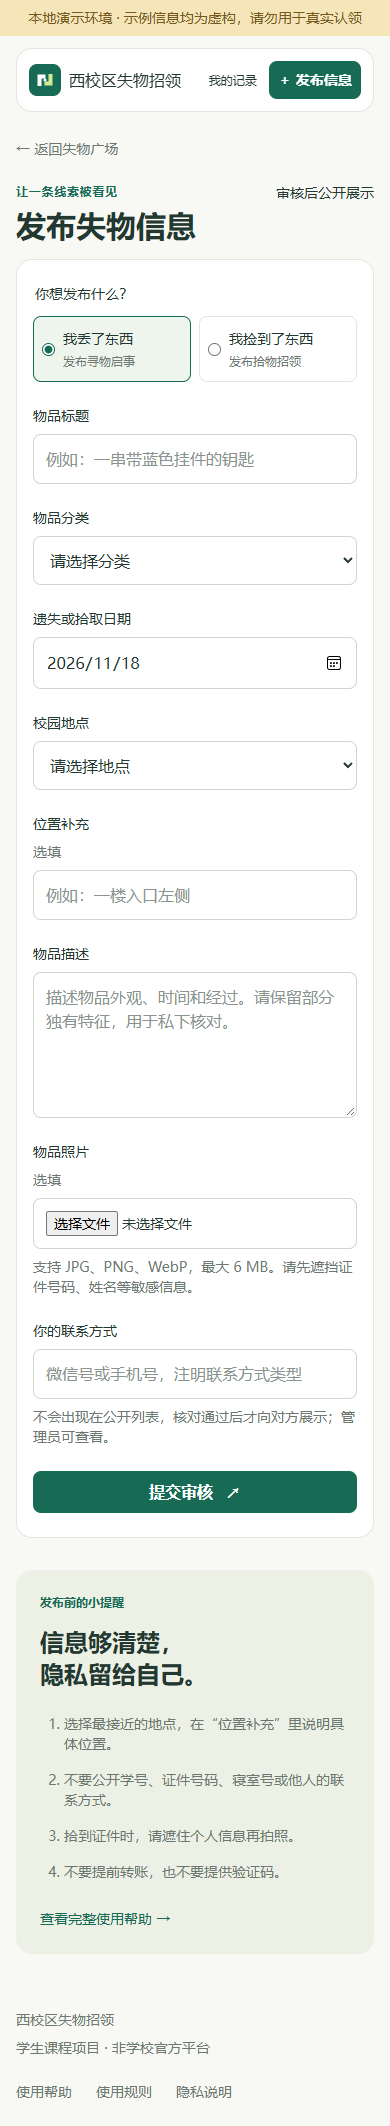
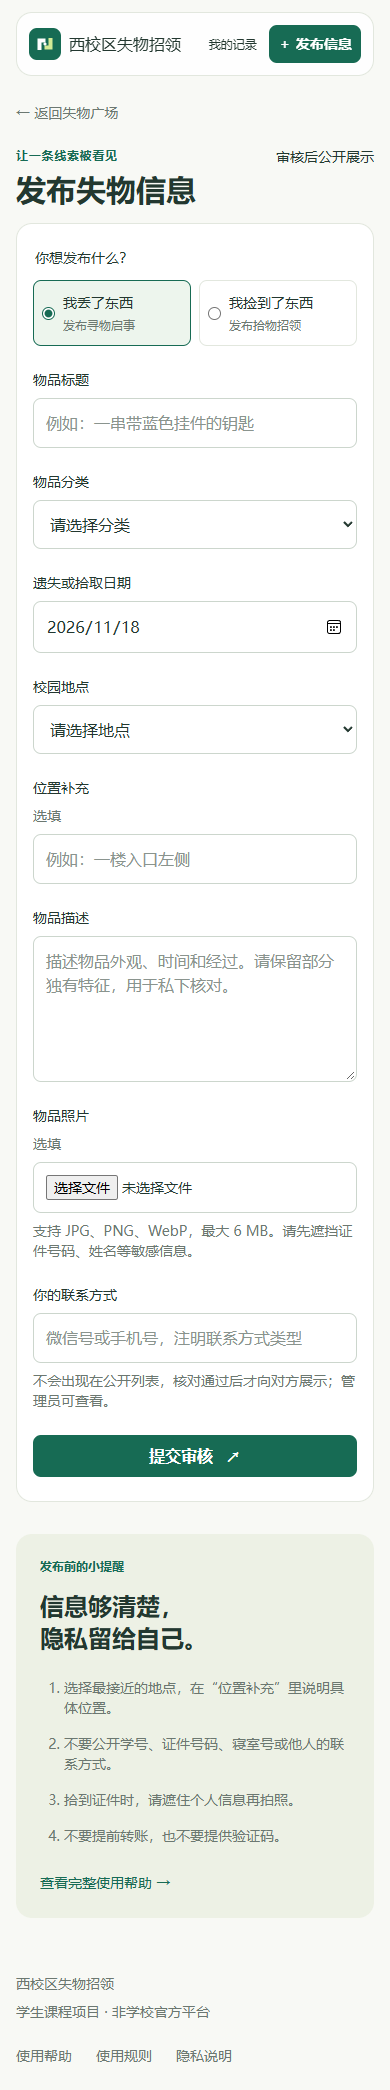
改为真实认领使用版，移除演示模式并隔离旧样例数据

diff --git a/templates/组件.html b/templates/组件.html
@@ -24,7 +24,7 @@
         <div class="card-topline caption-5"><span>{{ item.category }}</span><span>{{ item.happened_on.strftime("%m月%d日") }}</span></div>
         <h3 class="title-2">{{ item.title }}</h3>
         <p class="card-location body-6"><span aria-hidden="true">⌖</span> {{ item.location }}</p>
-        <div class="card-bottom caption-5"><span>{{ '演示信息' if item.is_demo else item.owner.username }}</span><span>{{ '查看进度' if item.resolved else '查看详情' }} <span aria-hidden="true">↗</span></span></div>
+        <div class="card-bottom caption-5"><span>{{ item.owner.username }}</span><span>{{ '查看进度' if item.resolved else '查看详情' }} <span aria-hidden="true">↗</span></span></div>
       </div>
     </a>
   </article>

diff --git a/templates/详情.html b/templates/详情.html
@@ -2,7 +2,6 @@
 {% block title %}{{ item.title }}{% endblock %}
 {% block content %}
   <a class="back-link caption-1" href="{{ url_for('index') }}">← 返回失物广场</a>
-  {% if item.is_demo %}<p class="notice info body-6">这是一条虚构的演示信息，不代表校园内真实发生的事件。</p>{% endif %}
   {% if item.review != "approved" %}<p class="notice info body-6">{{ review_names[item.review] }}，当前信息未公开。{{ item.review_note }}</p>{% endif %}
   <section class="detail-layout">
     <article class="form-panel detail-main">

diff --git a/templates/首页.html b/templates/首页.html
@@ -28,7 +28,7 @@
     <div><span class="stat-value heading-5">{{ counts.get('found', 0) }}</span><span class="caption-2">拾到物品等待认领</span></div>
     <div><span class="stat-value heading-5">{{ returned }}</span><span class="caption-2">已标记找回</span></div>
     <p class="caption-2 stats-note">
-      {{ '当前为演示数据' if demo_mode else '数字来自已审核的信息' }}
+      数字来自已审核的信息
       <br>
       你的一条线索，也许正被需要
     </p>

diff --git a/templates/基础.html b/templates/基础.html
@@ -20,7 +20,6 @@
   </head>
   <body class="body-3">
     <a class="skip-link" href="#main">跳转到主要内容</a>
-    {% if demo_mode %}<div class="demo-banner caption-1">本地演示环境 · 示例信息均为虚构，请勿用于真实认领</div>{% endif %}
     <header class="site-header">
       <a class="brand"
          href="{{ url_for('index') }}"

diff --git a/static/样式.css b/static/样式.css
@@ -823,13 +823,6 @@ a:active {
   gap: 24px
 }
 
-.demo-banner {
-  text-align: center;
-  background: #f5e5b9;
-  color: #75591f;
-  padding: 8px 16px
-}
-
 .flash-stack {
   display: grid;
   gap: 8px;

diff --git a/app.py b/app.py
@@ -73,6 +73,7 @@ class Item(db.Model):
     review = db.Column(db.String(12), nullable=False, default='pending', index=True)
     review_note = db.Column(db.String(200), nullable=False, default='')
     resolved = db.Column(db.Boolean, nullable=False, default=False)
+    # 兼容旧版数据库；旧演示记录永不进入真实认领页面。
     is_demo = db.Column(db.Boolean, nullable=False, default=False)
     created_at = db.Column(db.DateTime, nullable=False, default=now, index=True)
     __table_args__ = (db.Index('ix_item_feed', 'review', 'resolved', 'kind', 'created_at'),)
@@ -153,7 +154,6 @@ def create_app(test_config=None):
         SITE_NAME=os.environ.get('SITE_NAME', campus['网站名称']),
         SCHOOL_NAME=os.environ.get('SCHOOL_NAME', campus['学校名称']),
         CAMPUS_LOCATIONS=campus['校园地点'],
-        DEMO_MODE=os.environ.get('DEMO_MODE', '0') == '1',
     )
     if os.environ.get('ALLOWED_HOSTS'):
         app.config['TRUSTED_HOSTS'] = os.environ['ALLOWED_HOSTS'].split(',')
@@ -186,7 +186,7 @@ def create_app(test_config=None):
     def shared():
         return dict(categories=CATEGORIES, review_names=REVIEW_NAMES, claim_names=CLAIM_NAMES,
                     today=(now() + timedelta(hours=8)).date(), site_name=app.config['SITE_NAME'],
-                    school_name=app.config['SCHOOL_NAME'], demo_mode=app.config['DEMO_MODE'],
+                    school_name=app.config['SCHOOL_NAME'],
                     campus_locations=app.config['CAMPUS_LOCATIONS'])
 
     @app.template_filter('beijing')
@@ -212,6 +212,8 @@ def create_app(test_config=None):
         db.session.commit()
 
     def visible(item):
+        if item.is_demo:
+            return False
         return item.review == 'approved' or (g.user and (g.user.id == item.owner_id or g.user.is_admin))
 
     def save_image(upload):
@@ -250,7 +252,7 @@ def create_app(test_config=None):
         category = request.args.get('category', '')
         location = request.args.get('location', '')
         status = request.args.get('status', 'open')
-        query = select(Item).where(Item.review == 'approved')
+        query = select(Item).where(Item.review == 'approved', Item.is_demo.is_(False))
         if kind in ('lost', 'found'):
             query = query.where(Item.kind == kind)
         if category in CATEGORIES:
@@ -264,8 +266,8 @@ def create_app(test_config=None):
         if q:
             query = query.where(or_(Item.title.contains(q, autoescape=True), Item.location.contains(q, autoescape=True), Item.description.contains(q, autoescape=True)))
         page = db.paginate(query.order_by(Item.created_at.desc(), Item.id.desc()), per_page=12, error_out=False)
-        counts = dict(db.session.execute(select(Item.kind, db.func.count()).where(Item.review == 'approved', Item.resolved.is_(False)).group_by(Item.kind)).all())
-        returned = db.session.scalar(select(db.func.count()).select_from(Item).where(Item.review == 'approved', Item.resolved.is_(True)))
+        counts = dict(db.session.execute(select(Item.kind, db.func.count()).where(Item.review == 'approved', Item.resolved.is_(False), Item.is_demo.is_(False)).group_by(Item.kind)).all())
+        returned = db.session.scalar(select(db.func.count()).select_from(Item).where(Item.review == 'approved', Item.resolved.is_(True), Item.is_demo.is_(False)))
         return render_template('首页.html', page=page, q=q, kind=kind, category=category, location=location, status=status, counts=counts, returned=returned)
 
     @app.route('/register', methods=['GET', 'POST'])
@@ -392,7 +394,7 @@ def create_app(test_config=None):
     @signed_in
     def claim(item_id):
         item = db.get_or_404(Item, item_id)
-        if item.review != 'approved' or item.resolved or item.owner_id == g.user.id:
+        if item.is_demo or item.review != 'approved' or item.resolved or item.owner_id == g.user.id:
             abort(403)
         try:
             recent = db.session.scalar(select(db.func.count()).select_from(Claim).where(Claim.claimant_id == g.user.id, Claim.created_at > now() - timedelta(days=1)))
@@ -458,9 +460,9 @@ def create_app(test_config=None):
     @app.get('/me')
     @signed_in
     def dashboard():
-        items = db.paginate(select(Item).where(Item.owner_id == g.user.id).order_by(Item.created_at.desc()), per_page=12, error_out=False)
-        claims = db.session.scalars(select(Claim).where(Claim.claimant_id == g.user.id).order_by(Claim.created_at.desc()).limit(50)).all()
-        incoming = db.session.scalars(select(Claim).join(Item).where(Item.owner_id == g.user.id, Claim.status == 'pending').order_by(Claim.created_at.desc()).limit(50)).all()
+        items = db.paginate(select(Item).where(Item.owner_id == g.user.id, Item.is_demo.is_(False)).order_by(Item.created_at.desc()), per_page=12, error_out=False)
+        claims = db.session.scalars(select(Claim).join(Item).where(Claim.claimant_id == g.user.id, Item.is_demo.is_(False)).order_by(Claim.created_at.desc()).limit(50)).all()
+        incoming = db.session.scalars(select(Claim).join(Item).where(Item.owner_id == g.user.id, Claim.status == 'pending', Item.is_demo.is_(False)).order_by(Claim.created_at.desc()).limit(50)).all()
         return render_template('我的记录.html', page=items, claims=claims, incoming=incoming)
 
     @app.get('/admin')
@@ -469,8 +471,8 @@ def create_app(test_config=None):
         state = request.args.get('state', 'pending')
         if state not in REVIEW_NAMES:
             state = 'pending'
-        page = db.paginate(select(Item).where(Item.review == state).order_by(Item.created_at.desc()), per_page=12, error_out=False)
-        pending_count = db.session.scalar(select(db.func.count()).select_from(Item).where(Item.review == 'pending'))
+        page = db.paginate(select(Item).where(Item.review == state, Item.is_demo.is_(False)).order_by(Item.created_at.desc()), per_page=12, error_out=False)
+        pending_count = db.session.scalar(select(db.func.count()).select_from(Item).where(Item.review == 'pending', Item.is_demo.is_(False)))
         return render_template('管理后台.html', page=page, state=state, pending_count=pending_count)
 
     @app.post('/admin/items/<int:item_id>')
@@ -552,31 +554,5 @@ def create_app(test_config=None):
         user.blocked = not unblock
         db.session.commit()
         click.echo('账号状态已更新。')
-
-    @app.cli.command('seed-demo')
-    def seed_demo():
-        """只在 DEMO_MODE=1 时写入明确标注的演示记录。"""
-        if not app.config['DEMO_MODE']:
-            raise click.ClickException('仅演示环境可执行。先设置 DEMO_MODE=1，勿在正式站点执行。')
-        if db.session.scalar(select(Item.id).where(Item.is_demo.is_(True)).limit(1)):
-            click.echo('演示数据已存在，未重复写入。')
-            return
-        user = User(username='演示发布者_' + secrets.token_hex(3), password_hash=generate_password_hash(secrets.token_urlsafe(32)))
-        db.session.add(user)
-        db.session.flush()
-        samples = [('found','一串带蓝色挂件的钥匙','钥匙','弘毅楼'),
-                   ('lost','米白色帆布包，有一本笔记','包袋衣物','大食堂'),
-                   ('found','一本写满批注的英语书','书本文具','笃学楼'),
-                   ('lost','深灰色无线耳机充电盒','数码设备','操场'),
-                   ('found','透明磨砂水杯','日用物品','篮球场'),
-                   ('found','一张校园卡，等待主人','证件卡片','小食堂')]
-        for i, (kind, title, category, location) in enumerate(samples):
-            db.session.add(Item(owner_id=user.id, kind=kind, title=title, category=category, location=location,
-                                happened_on=(now()+timedelta(hours=8)-timedelta(days=i//2)).date(),
-                                description='这是一条界面演示信息，并非真实失物。实际使用时请描述物品外观与发现位置，并保留可供私下核对的细节。',
-                                contact='演示信息，不提供真实联系方式', review='approved', is_demo=True,
-                                created_at=now()-timedelta(hours=i*3), resolved=i==5))
-        db.session.commit()
-        click.echo('已加入 6 条明确标注的演示信息。')
 
     return app

diff --git a/启动项目.py b/启动项目.py
@@ -1,32 +1,22 @@
-"""本地启动入口：python 启动项目.py，演示版加 --demo。"""
+"""本地启动入口：python 启动项目.py，直接使用真实发布与认领流程。"""
 import argparse
-import os
 import threading
 import webbrowser
-from pathlib import Path
 
 from app import create_app, db
 
 
 def main():
     parser = argparse.ArgumentParser(description='启动校园失物招领，仅供本地开发。')
-    parser.add_argument('--demo', action='store_true', help='使用独立的演示数据库')
     parser.add_argument('--no-browser', action='store_true', help='不自动打开浏览器')
     parser.add_argument('--port', type=int, default=5000)
     args = parser.parse_args()
     config = {'SESSION_COOKIE_SECURE':False, 'TRUSTED_HOSTS':['localhost','127.0.0.1']}
-    if args.demo:
-        folder = Path(__file__).resolve().parent / 'instance'
-        config.update(DEMO_MODE=True, SQLALCHEMY_DATABASE_URI='sqlite:///' + (folder / '本地演示.db').as_posix(), UPLOAD_FOLDER=str(folder / '演示图片'))
     app = create_app(config)
     with app.app_context():
         db.create_all()
-        if args.demo:
-            result = app.test_cli_runner().invoke(args=['seed-demo'])
-            if result.exit_code:
-                raise RuntimeError(result.output)
     address = f'http://127.0.0.1:{args.port}'
-    print(f'本地地址：{address}\n按 Ctrl+C 停止。演示数据与正式数据库独立。', flush=True)
+    print(f'本地地址：{address}\n按 Ctrl+C 停止。请先创建管理员，审核同学提交的信息。', flush=True)
     if not args.no_browser:
         threading.Timer(1, lambda: webbrowser.open(address)).start()
     app.run(host='127.0.0.1', port=args.port, debug=False)

diff --git a/tests/test_业务流程.py b/tests/test_业务流程.py
@@ -19,7 +19,7 @@ def app(tmp_path):
     app = create_app({'TESTING': True, 'SECRET_KEY': 'tests-only-secret',
                       'SQLALCHEMY_DATABASE_URI': 'sqlite:///' + (tmp_path / '测试.db').as_posix(),
                       'UPLOAD_FOLDER': str(tmp_path / '图片'), 'WTF_CSRF_ENABLED': False,
-                      'SESSION_COOKIE_SECURE': False, 'DEMO_MODE': False})
+                      'SESSION_COOKIE_SECURE': False})
     with app.app_context():
         db.create_all()
         for name in ('发布同学', '认领同学', '其他同学', '管理员'):
@@ -238,3 +238,17 @@ def test_cli_and_headers(app):
     assert response.headers['X-Frame-Options'] == 'DENY'
     assert "script-src 'self'" in response.headers['Content-Security-Policy']
     assert 'no-store' in response.headers['Cache-Control']
+
+
+def test_legacy_demo_stays_hidden(app):
+    item_id = post_item(app, is_demo=True)
+    client = app.test_client()
+    html = client.get('/').get_data(as_text=True)
+    assert '蓝色挂件钥匙' not in html
+    assert '0 条符合条件' in html
+    assert '本地演示环境' not in html
+    assert client.get(f'/items/{item_id}').status_code == 404
+    assert client_as(app, '发布同学').get(f'/items/{item_id}').status_code == 404
+    claimant = client_as(app, '认领同学')
+    assert claimant.post(f'/items/{item_id}/claim', data={'proof':'这串钥匙是我的，有星星挂件。','contact':'测试联系'}).status_code == 403
+    assert '蓝色挂件钥匙' not in client_as(app, '管理员').get('/admin?state=approved').get_data(as_text=True)

diff --git a/README.md b/README.md
@@ -4,7 +4,7 @@
 
 > 学生课程项目，非学校官方平台。源码发布到 GitHub 不等于网站已经上线。
 
-代码采用 [MIT 开源许可证](LICENSE)，可用于学习和改进。用户数据库、照片和真实配置不属于开源内容，不进入仓库。
+代码采用 [MIT 开源许可证](LICENSE)，可用于学习和改进。用户数据库、照片和真实配置不属于开源内容，不进入仓库。项目直接用于真实发布与认领，不生成虚构样例；新安装时信息列表与统计为零。
 
 ![首页预览](交付预览/电脑首页.png)
 
@@ -24,7 +24,7 @@
 Windows 在项目目录打开 PowerShell：
 
 ```powershell
-powershell -ExecutionPolicy Bypass -File .\启动项目.ps1 --demo
+powershell -ExecutionPolicy Bypass -File .\启动项目.ps1
 ```
 
 或者手动启动：
@@ -32,10 +32,10 @@ powershell -ExecutionPolicy Bypass -File .\启动项目.ps1 --demo
 ```powershell
 python -m venv .venv
 .\.venv\Scripts\python.exe -m pip install -r requirements.txt
-.\.venv\Scripts\python.exe 启动项目.py --demo
+.\.venv\Scripts\python.exe 启动项目.py
 ```
 
-浏览器访问 `http://127.0.0.1:5000`。演示版使用独立数据库，虚构信息均有标记。去掉 `--demo` 使用空白的正式数据环境。
+浏览器访问 `http://127.0.0.1:5000`。新安装的数据为空，同学可以注册并发布真实信息，管理员审核后公开展示。
 
 创建正式本地环境的管理员：
 
@@ -44,7 +44,7 @@ python -m venv .venv
 .\.venv\Scripts\python.exe -m flask --app app create-admin
 ```
 
-没有默认管理员密码。演示数据库也不提供固定密码账号，避免误用到公网。
+没有默认账号或管理员密码，首次使用必须自行创建管理员。注册的普通账号没有审核权限。
 
 ## 校园地点
 

diff --git a/验证记录.md b/验证记录.md
@@ -4,13 +4,13 @@
 
 ## 已通过
 
-- **12 项业务与权限测试**：页面与地点列表、注册登录、完整发布审核认领流程、字段校验与脚本转义、图片格式与访问权限、CSRF、搜索筛选与分页、所有权与重复申请、单一认领确认、频率限制、审核退回与账号限制、维护命令与安全响应头。
+- **13 项业务与权限测试**：页面与地点列表、注册登录、完整发布审核认领流程、字段校验与脚本转义、图片格式与访问权限、CSRF、搜索筛选与分页、所有权与重复申请、单一认领确认、频率限制、审核退回与账号限制、维护命令与安全响应头，以及旧演示数据隔离。
 - **浏览器实际操作**：注册、地点筛选、查看详情、发布、弹窗确认撤下、退出、重新登录。
 - **手机宽度检查**：390 像素下检查首页、登录、注册、帮助、公开详情、404、我的记录、发布、本人未公开详情，共 9 个页面，无横向溢出。
 - **视觉检查**：查看电脑首页、手机首页、手机发布页截图；未发现裁切、主要按钮遮挡或失效的表单。
 - **公开仓库排除检查**：运行数据库、会话密钥、本地环境、临时检查文件不在版本控制中。
 
-截图中的物品均为明确标记的虚构演示信息。浏览器检查创建的临时账号与记录已清除。
+按用户要求，项目已移除演示模式与样例生成入口，交付截图更新为真实使用版的初始空白状态。测试数据只存在于独立测试数据库中；旧演示记录即使意外留在旧数据库中，也不会公开展示或允许认领。
 
 ## 尚未验证
 

diff --git a/更新记录.md b/更新记录.md
@@ -12,3 +12,10 @@
 - 统一跨平台源码换行，补充 Windows PowerShell 中文脚本编码兼容。
 
 每次实际修改的准确时间和逐行内容，以 Git 提交记录为准。后续修改按实际内容追加，不预先编造版本历史。
+
+## 2026 年 11 月 18 日 · 改为真实认领使用版
+
+- 移除演示横幅、演示启动参数与虚构样例生成入口。
+- 新安装从空白数据开始，只展示同学实际提交且审核通过的信息。
+- 隔离旧版本遗留的演示记录，禁止展示与认领。
+- 更新真实使用版页面截图和项目说明。

diff --git a/使用与部署说明.md b/使用与部署说明.md
@@ -47,7 +47,6 @@ cp .env.example .env
 ```dotenv
 COOKIE_SECURE=1
 ALLOWED_HOSTS=你的用户名.pythonanywhere.com
-DEMO_MODE=0
 ```
 
 主机名以 Web 页面实际分配的地址为准；欧盟站等其他域名不要照抄。`ALLOWED_HOSTS` 不带协议或路径。
@@ -142,7 +141,7 @@ pip install --no-cache-dir -r requirements.txt
 
 ## 维护命令
 
-在项目目录激活虚拟环境后：
+项目不生成虚构物品，首次安装为真实使用的空白数据库。在项目目录激活虚拟环境后：
 
 ```bash
 flask --app app reset-password 用户昵称
